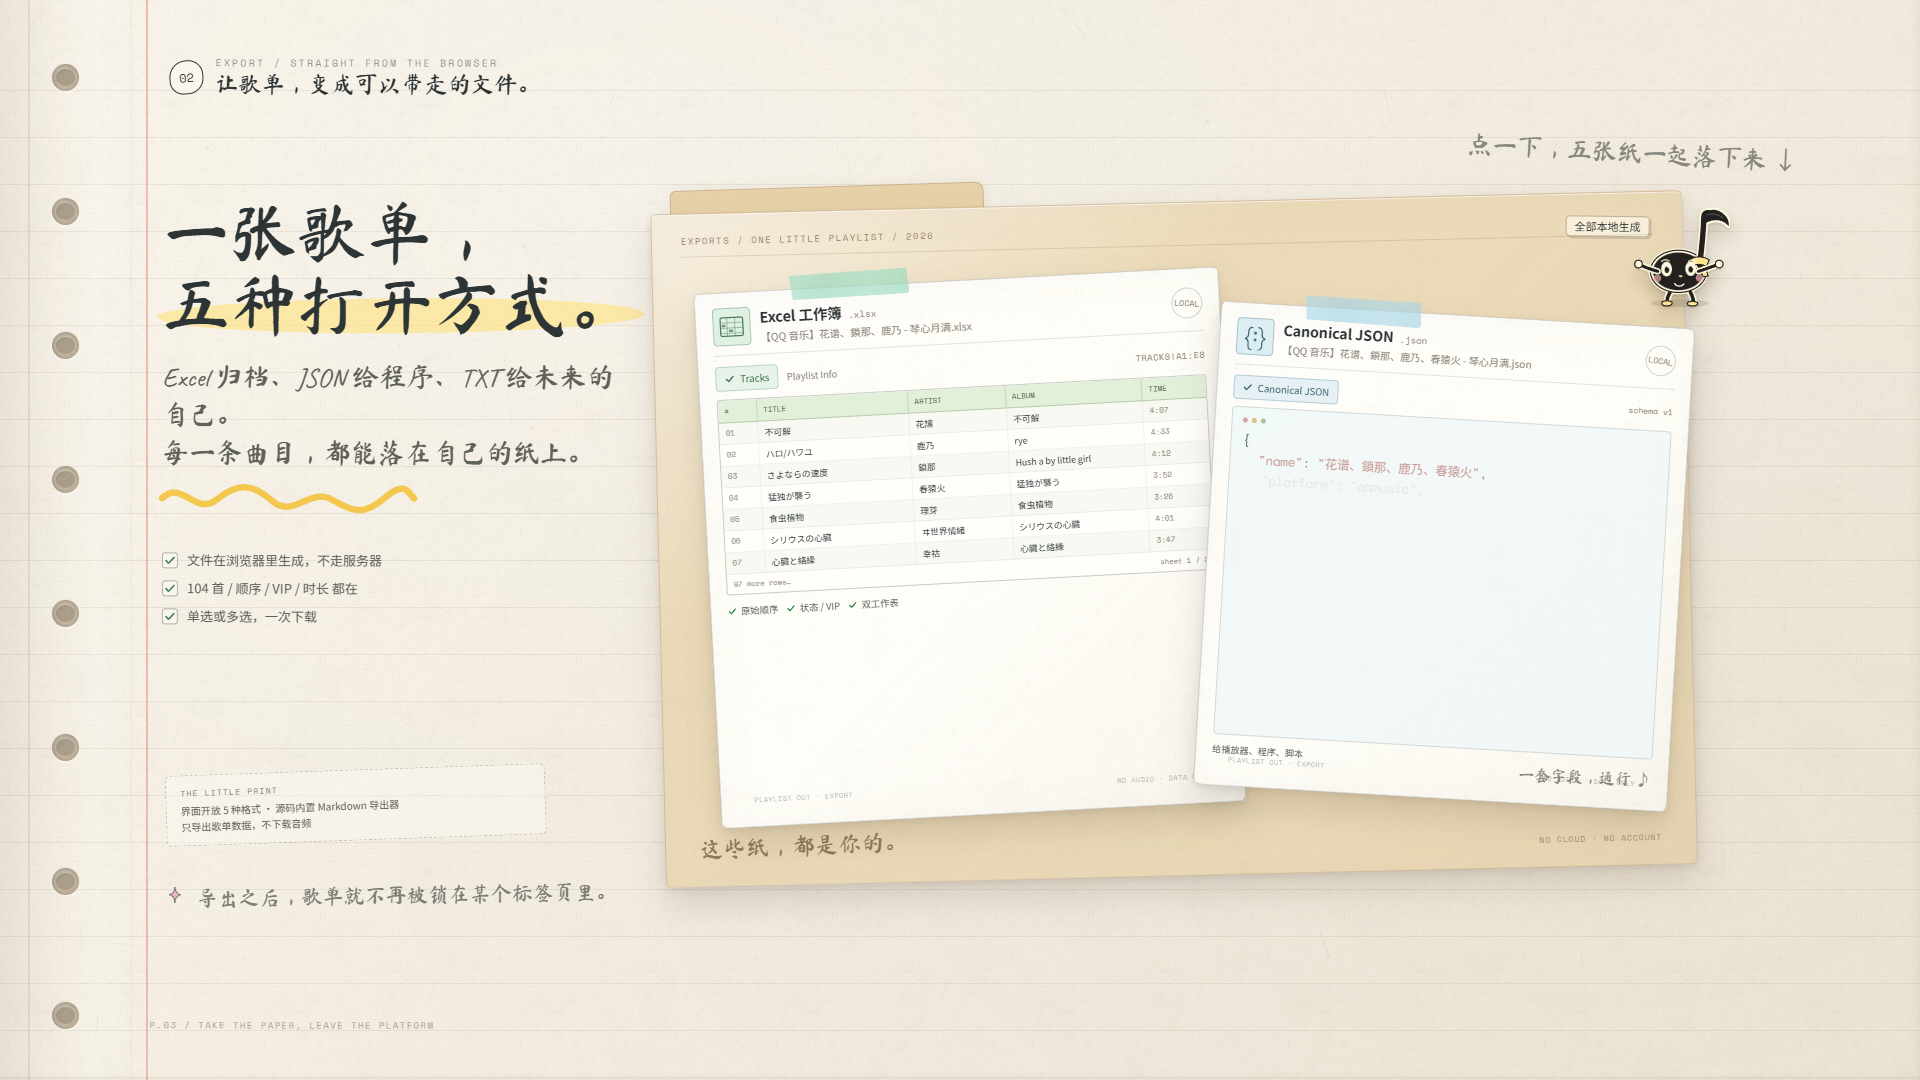
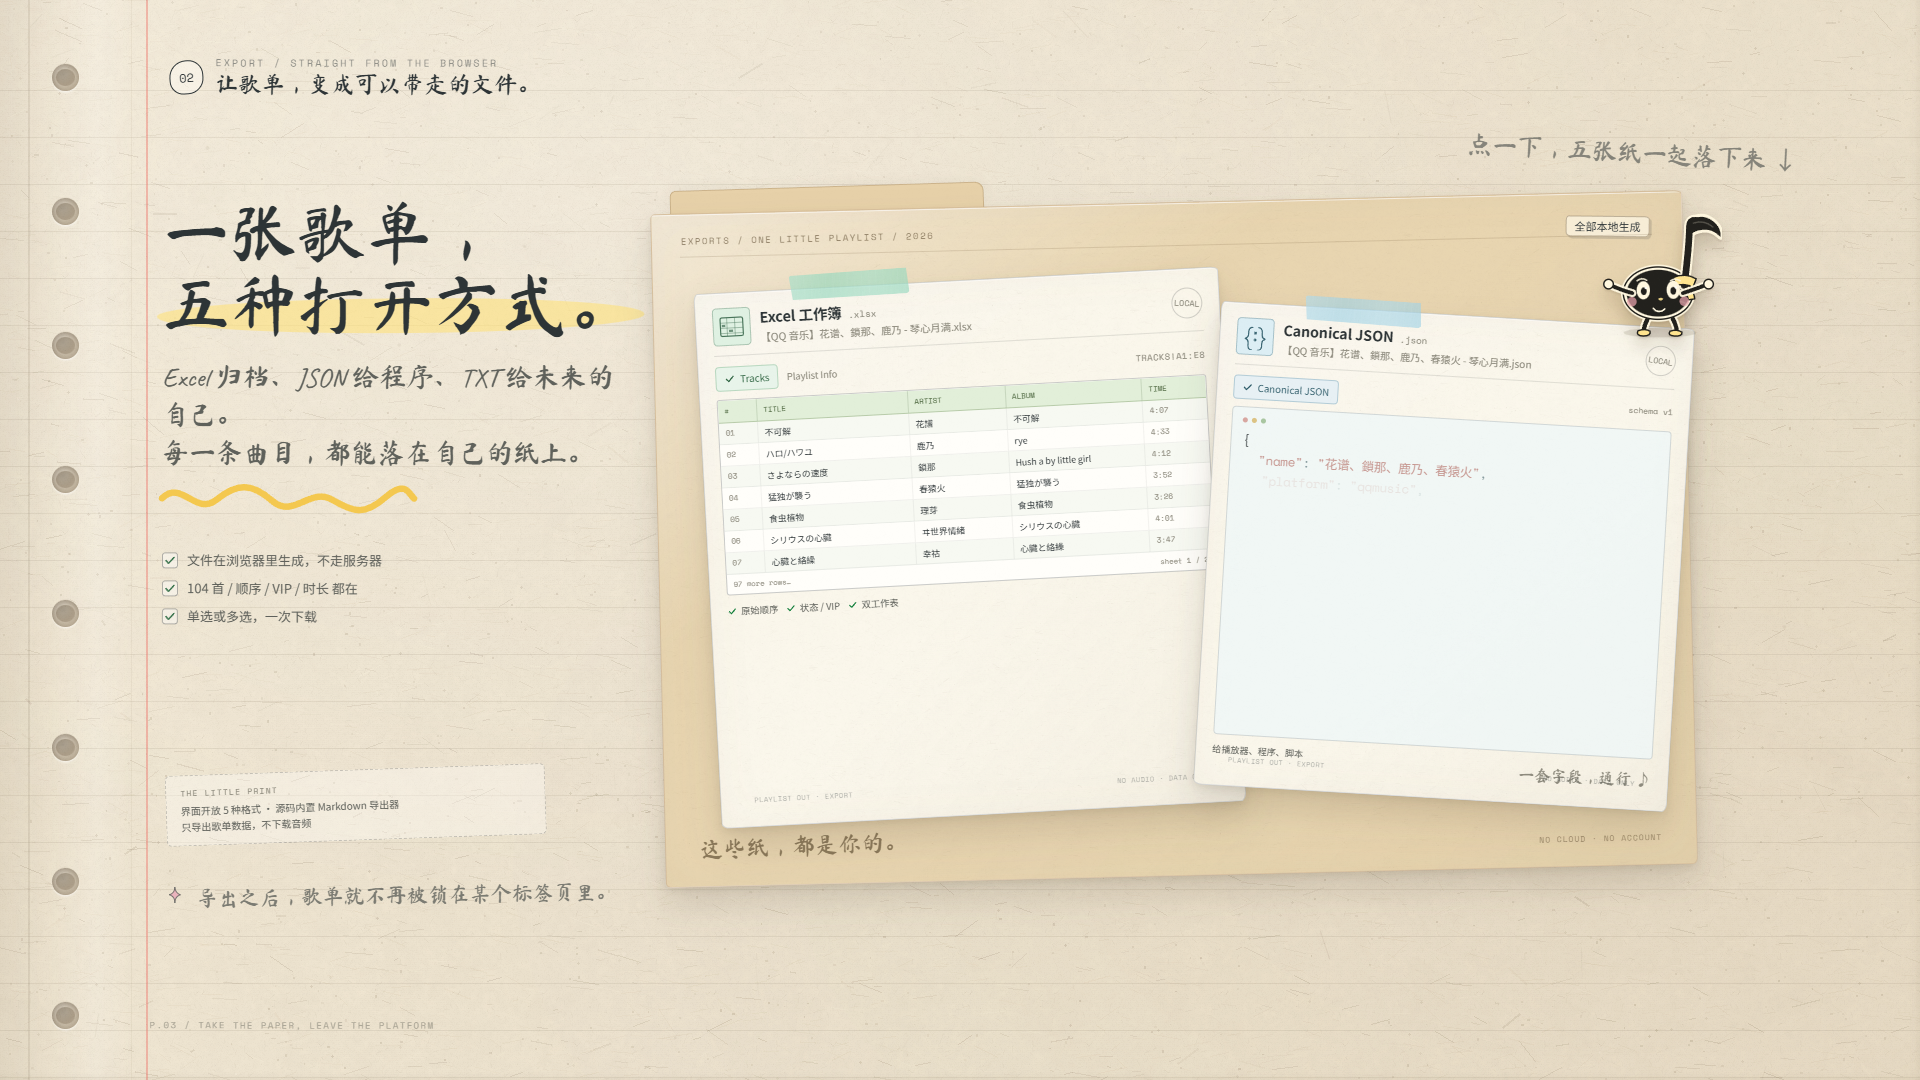
feat(videos): add paper textures and updated still frames for premiere v2

Changed region(s): [[0.8125, 0.1833, 0.9062, 0.3361]]

diff --git a/videos/playlistout-premiere/tools/make_paper.py b/videos/playlistout-premiere/tools/make_paper.py
@@ -1,0 +1,113 @@
+"""Generate a tactile paper surface and a repeating paper-fibre tile.
+
+No third-party imagery; the fibres, pulp mottling and flecks are drawn from
+seeded random numbers so the result stays reproducible.
+"""
+from __future__ import annotations
+
+from pathlib import Path
+
+import numpy as np
+from PIL import Image, ImageDraw, ImageFilter
+
+ROOT = Path(__file__).resolve().parent.parent
+OUT = ROOT / "public" / "textures"
+OUT.mkdir(parents=True, exist_ok=True)
+
+
+def fractal_field(w: int, h: int, rng: np.random.Generator) -> np.ndarray:
+    field = np.zeros((h, w), dtype=np.float32)
+    for scale, amp in [(4, 0.55), (12, 0.34), (36, 0.22), (96, 0.13)]:
+        small = rng.normal(0, 1, (max(2, h // scale), max(2, w // scale))).astype(np.float32)
+        layer = np.array(Image.fromarray(small).resize((w, h), Image.Resampling.BICUBIC))
+        field += layer * amp
+    field -= field.min()
+    field /= max(1e-6, field.max())
+    return field
+
+
+def make_surface(w: int, h: int, seed: int) -> Image.Image:
+    rng = np.random.default_rng(seed)
+    field = fractal_field(w, h, rng)
+
+    base = np.zeros((h, w, 3), dtype=np.float32)
+    # cream paper, with local absorbency variation
+    base[..., 0] = 244 + (field - 0.5) * 10
+    base[..., 1] = 238 + (field - 0.5) * 10
+    base[..., 2] = 225 + (field - 0.5) * 9
+
+    full = Image.fromarray(np.clip(base, 0, 255).astype(np.uint8), "RGB")
+    draw = ImageDraw.Draw(full, "RGBA")
+
+    # long, mostly horizontal paper fibres
+    for _ in range(int(w * h * 0.0028)):
+        x = rng.uniform(-20, w + 20)
+        y = rng.uniform(-20, h + 20)
+        length = rng.uniform(3, 28)
+        angle = rng.normal(0.08, 0.32)
+        x2 = x + np.cos(angle) * length
+        y2 = y + np.sin(angle) * length
+        if rng.random() < 0.22:
+            color = (120, 102, 76, rng.integers(20, 52))
+        elif rng.random() < 0.3:
+            color = (255, 251, 237, rng.integers(35, 85))
+        else:
+            color = (196, 177, 145, rng.integers(14, 36))
+        draw.line((x, y, x2, y2), fill=color, width=1 if rng.random() > 0.12 else 2)
+
+    # a few longer, softly curved fibres
+    for _ in range(24):
+        x = rng.uniform(0, w)
+        y = rng.uniform(0, h)
+        pts = [(x, y)]
+        for k in range(4):
+            x += rng.uniform(-6, 6)
+            y += rng.uniform(-2, 2)
+            pts.append((x, y))
+        draw.line(pts, fill=(125, 106, 78, rng.integers(30, 62)), width=1)
+
+    # pulp specks
+    for _ in range(int(w * h * 0.0011)):
+        x = rng.uniform(0, w)
+        y = rng.uniform(0, h)
+        r = rng.uniform(0.35, 1.8)
+        color = (120, 101, 72, rng.integers(20, 60)) if rng.random() < 0.7 else (255, 251, 237, rng.integers(30, 90))
+        draw.ellipse((x, y, x + r, y + r), fill=color)
+
+    # very subtle broad scuffs / sizing marks
+    overlay = Image.new("L", (w, h), 0)
+    od = ImageDraw.Draw(overlay)
+    for _ in range(9):
+        x1 = rng.uniform(0, w)
+        y1 = rng.uniform(0, h)
+        length = rng.uniform(120, 500)
+        angle = rng.uniform(-0.25, 0.25)
+        x2 = x1 + np.cos(angle) * length
+        y2 = y1 + np.sin(angle) * length
+        od.line((x1, y1, x2, y2), fill=int(rng.uniform(6, 16)), width=int(rng.uniform(3, 12)))
+    overlay = overlay.filter(ImageFilter.GaussianBlur(9))
+    full = Image.composite(Image.new("RGB", (w, h), (124, 105, 78)), full, overlay.point(lambda v: int(v * 0.7)))
+    return full
+
+
+def save_tile() -> None:
+    tile = make_surface(1024, 1024, 20261108)
+    # turn the tile edges into a soft wrap by mirroring the border strips
+    a = np.asarray(tile).astype(np.float32)
+    strip = 28
+    a[:, :strip] = (a[:, :strip] + a[:, -strip:][:, ::-1]) / 2
+    a[:, -strip:] = a[:, :strip][:, ::-1]
+    a[:strip, :] = (a[:strip, :] + a[-strip:, :][::-1, :]) / 2
+    a[-strip:, :] = a[:strip, :][::-1, :]
+    Image.fromarray(np.clip(a, 0, 255).astype(np.uint8)).save(OUT / "paper-fibre-tile.png", optimize=True)
+
+
+def main() -> None:
+    save_tile()
+    page = make_surface(1920, 1080, 20261107)
+    page.save(OUT / "paper-fibre-page.png", optimize=True)
+    print("wrote paper-fibre-tile.png and paper-fibre-page.png")
+
+
+if __name__ == "__main__":
+    main()
